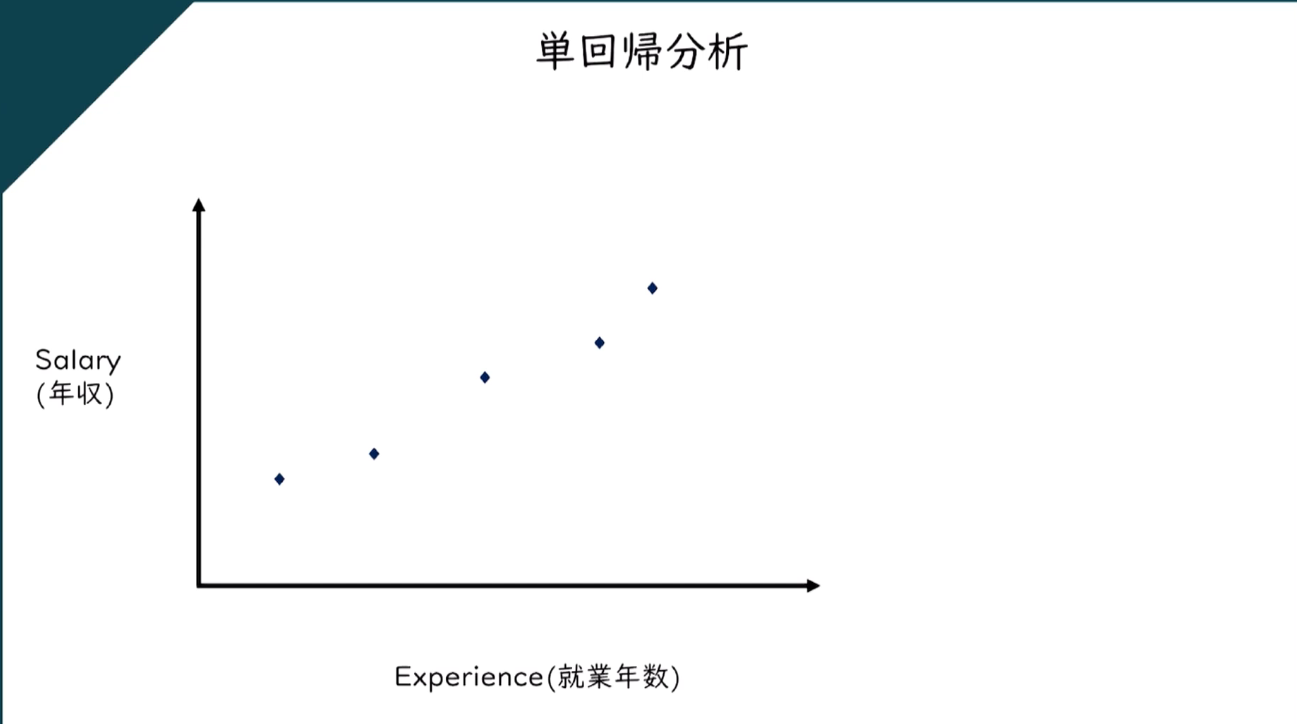
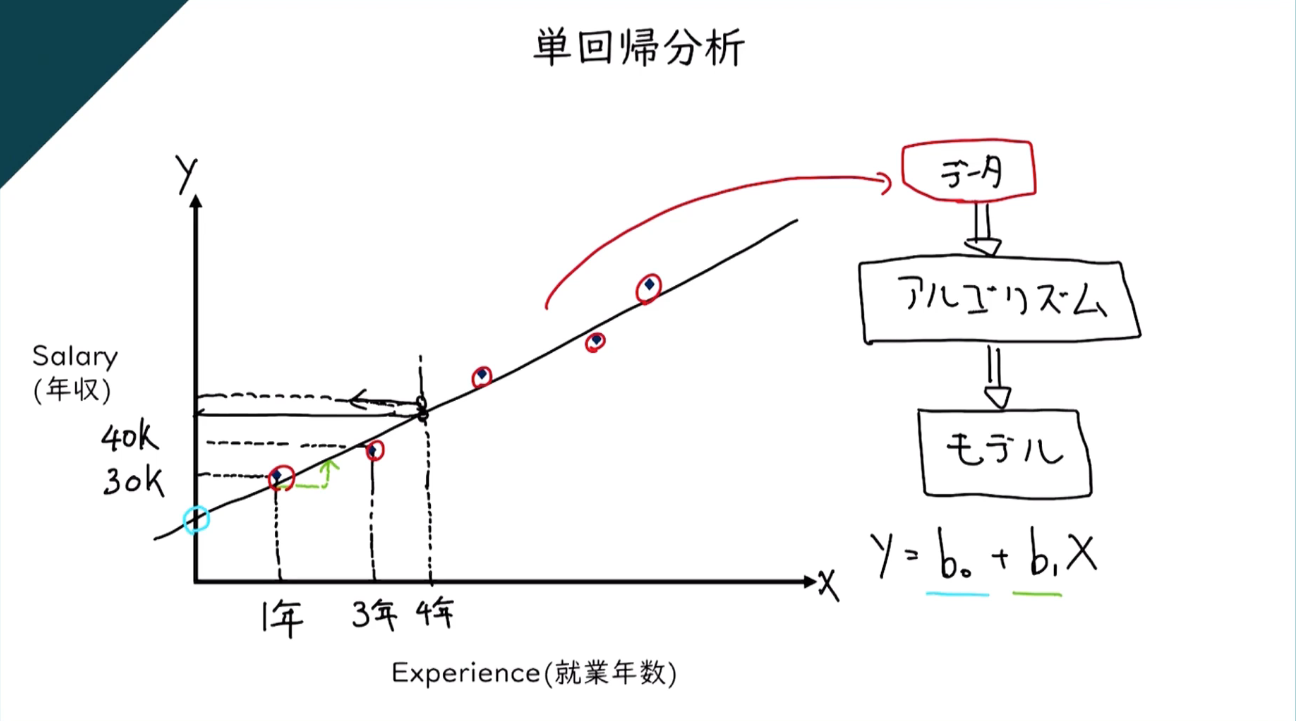
Update notes at 2025-11-24 03:29:01

diff --git a/機械学習/3.回帰分析（回帰モデル）.md b/機械学習/3.回帰分析（回帰モデル）.md
@@ -1,8 +1,16 @@
-回帰モデルは、給料といった値を予測する際に使われる。
-例えば、独立変数が時間だとすると、回帰モデルを作成することによって将来のある値を予測することになる。
-回帰の手法は、線形回帰からサポートベクトル回帰、ランダムフォレストまで多くの種類がある。
+回帰モデルは、給料といった値を予測する際に使われる。  
+例えば、独立変数が時間だとすると、回帰モデルを作成することによって将来のある値を予測することになる。  
+回帰の手法は、線形回帰からサポートベクトル回帰、ランダムフォレストまで多くの種類がある。  
 
 # 単回帰分析
 
 ![単回帰分析](../pic/2.png)
+4年目の年収を予測するには、判明しているデータ（今回だったら5つの点）に一番近い直線を引き、X軸・Y軸の接点の値が予測値となる。  
+`y = b0 + b1X`
+b0：y軸との接点の値  
+b1：就業年数が1年増えたら年収がどれだけ増えるか（係数）
+データ：年収  
+アルゴリズム：直線をどのように引くか
+
+# 最小二乗法
 
